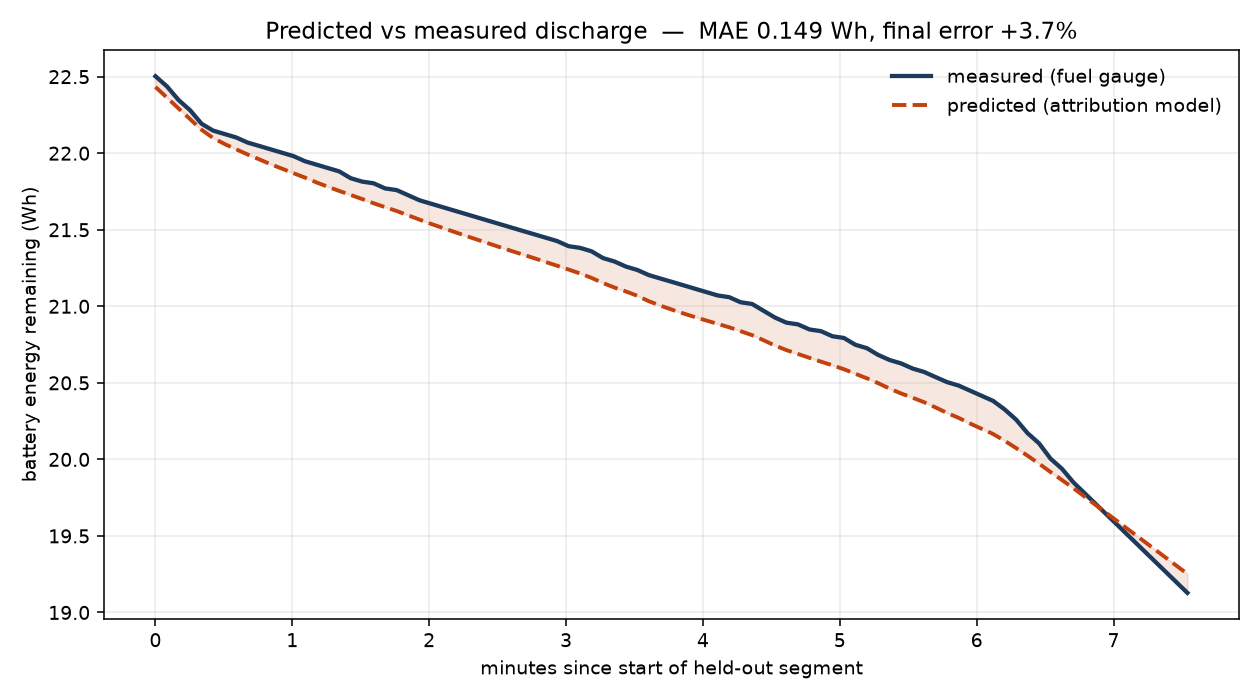
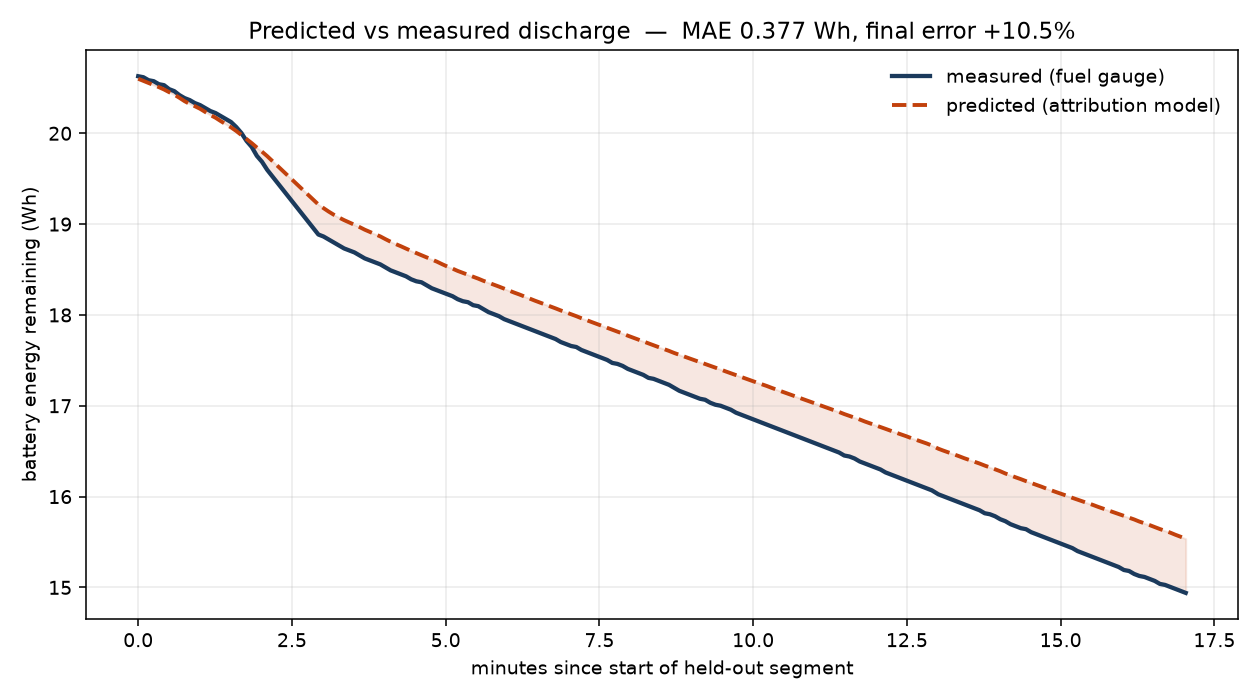
docs: report longer validation and non-stationarity

diff --git a/README.md b/README.md
@@ -5,10 +5,13 @@ Per-process battery attribution for Linux, learned per machine.
 ![Predicted vs measured discharge](docs/discharge.png)
 
 The model was fitted on the first part of an unplugged session, then asked to
-predict the next 7.6 minutes of battery trajectory it had never seen. It landed
-within **3.7%**, and — the part that matters — the predicted curve *bends where
-the real one bends*. Two straight lines agreeing would prove nothing; tracking
-changes in drain rate is a claim only a working model can satisfy.
+predict the next **17.1 minutes** of battery trajectory it had never seen — a
+span containing a real load transition, as a heavy GPU/CPU task ended. Both
+curves show the same elbow at ~2.5 min, and the final energy error is **+10.5%**.
+
+Tracking *changes* in drain rate is the claim that matters. Two straight lines
+agreeing proves nothing, and an early run of this plot on an idle machine
+produced exactly that — see the honesty note below.
 
 Tells you what is actually draining your battery, in watts rather than CPU
 percent:
@@ -202,23 +205,34 @@ Measured on one machine (AMD Ryzen AI 7 350, Radeon 860M, Fedora, kernel
 
 | check | result |
 |---|---|
-| Discharge curve, 7.6 min held out, 82 windows | **MAE 0.149 Wh, final error +3.7%** |
-| Runtime estimate | 0.94 h predicted vs 0.85 h measured |
-| System model (`package -> battery`) | **R^2 0.923** |
-| Held-out *package* power | R^2 0.288, MAE 8.4 W vs 17.8 W naive |
+| Discharge curve, **17.1 min** held out, 195 windows, load transition | **MAE 0.377 Wh, final error +10.5%** |
+| Discharge curve, 7.6 min held out, 82 windows, steadier load | MAE 0.149 Wh, final error +3.7% |
+| Runtime estimate (17 min run) | 1.22 h predicted vs 1.03 h measured |
+| System model (`package -> battery`) | **R^2 0.937** |
+| Held-out *package* power | **R^2 -0.30 to +0.29** depending on split |
 
-**Read those two last rows together.** Predicting how fast the battery drains
-is a much easier claim than saying *which application* drained it, and only the
-first is well supported here. The discharge curve validates the total; the
-held-out package R^2 of 0.288 is what bounds confidence in the per-application
-breakdown, and it is modest. A model can get the total right while splitting it
-between applications incorrectly.
+**Read the last two rows together.** Predicting how fast the battery drains is
+a much easier claim than saying *which application* drained it, and only the
+first is well supported. The discharge curve validates the total; held-out
+package R^2 is what bounds confidence in the per-application breakdown, and it
+ranges from +0.29 to **negative** depending on where the split falls. A model
+can get the total right while dividing it between applications wrongly. The
+per-app numbers in `top` should be read as indicative, not measured.
 
-Other honest limits: the held-out span is 7.6 minutes, not hours. The split
-that covers the *whole* 55-minute session still fails, because load only
-appeared in its final third, leaving the training half with nothing to learn
-from — visible as a model that tracks an idle machine perfectly and then misses
-the moment work starts. One machine, one session.
+The reason that R^2 swings so much is worth stating plainly, because it is a
+property of the problem rather than a shortfall of this recording: **real
+desktop use is non-stationary**. Over 75 minutes this machine was idle, then
+ran a heavy GPU and CPU load, then went quiet again. Any chronological split
+therefore trains on one regime and tests on another — in one split the training
+half held every window above 25 W and the test half held none. Coefficients
+fitted to a saturated machine do not describe an idle one, and vice versa.
+Longer recordings help, but a model fitted over a rolling window will always
+lag a regime change.
+
+Other limits: one machine, one session, and the whole-session split still fails
+outright when load occupies only the final third of the recording — visible as
+a model that tracks an idle machine perfectly and then completely misses the
+moment work starts.
 
 What *has* been measured, on one machine (AMD Ryzen AI 7 350, Radeon 860M,
 Fedora, kernel 7.0.10), over 4.3 minutes and 129 windows of scripted load:
